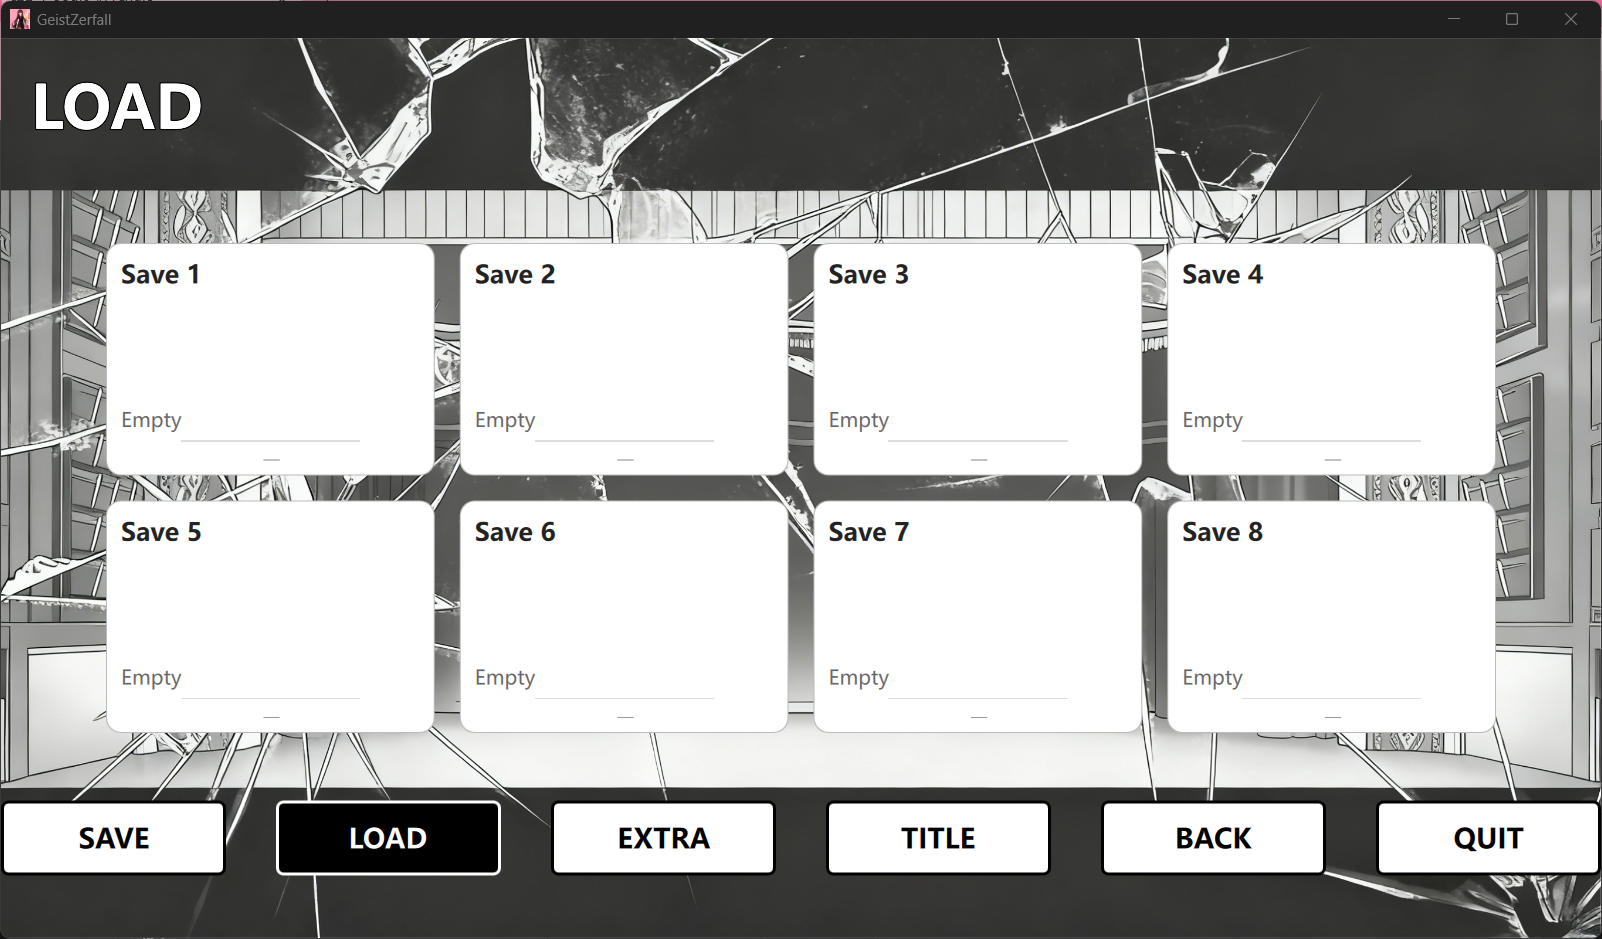
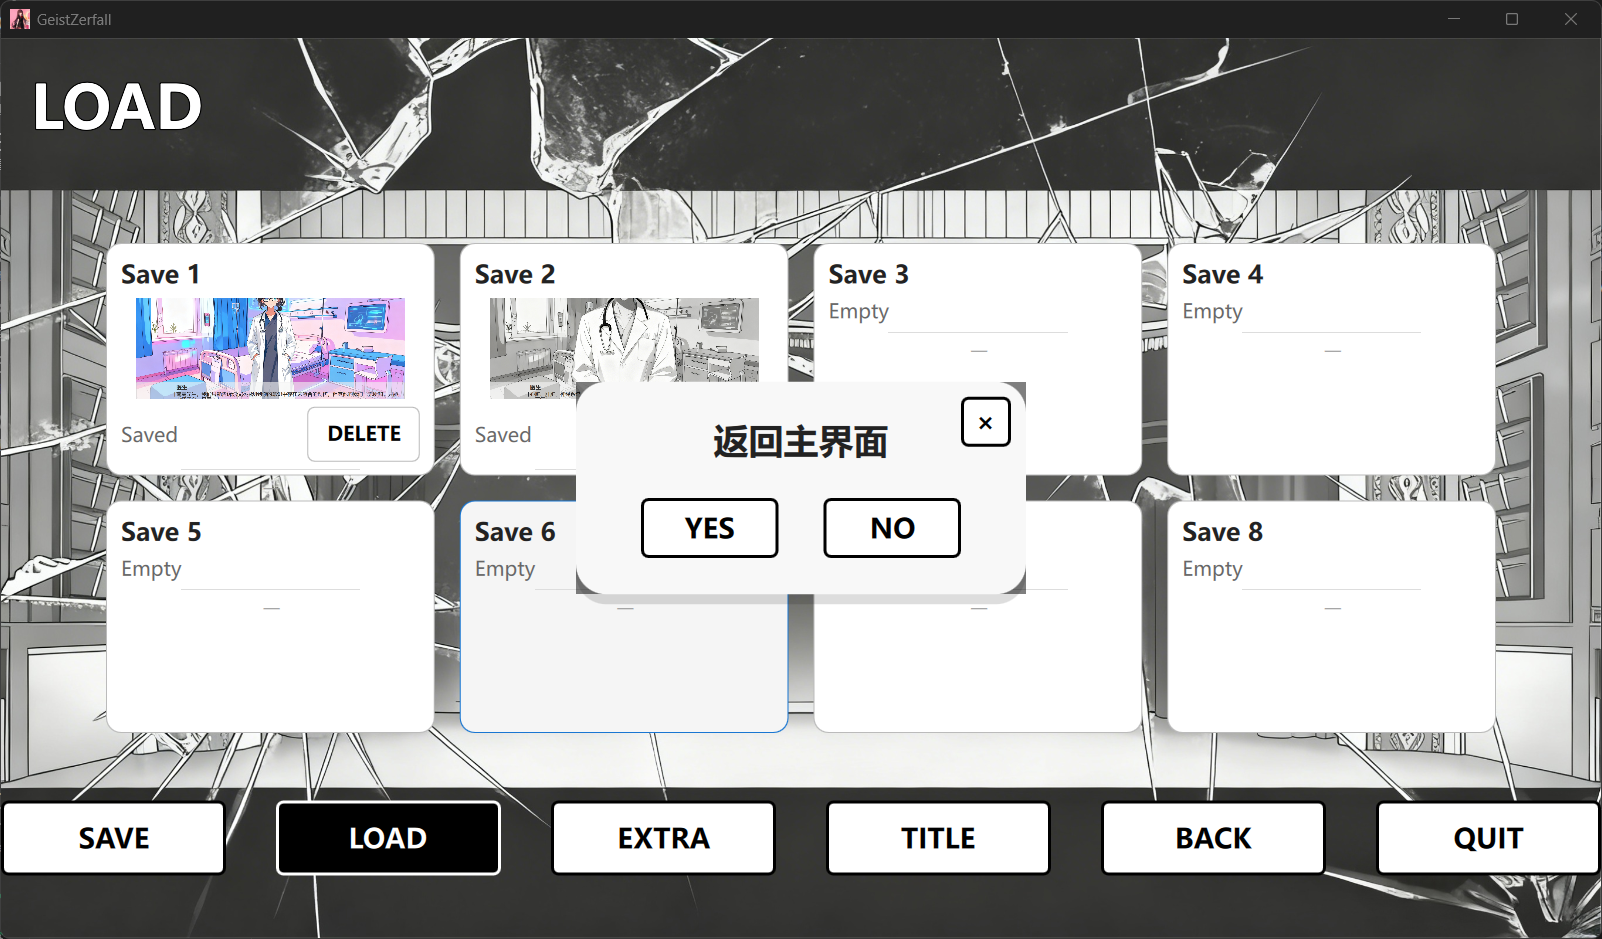
文档更新

diff --git a/README.md b/README.md
@@ -1,5 +1,3 @@
-
-
 <div align="center">
     <h1>GeistZerfall</h1>
     <br/>
@@ -24,6 +22,8 @@
   - [编译步骤](#编译步骤)
 - [项目结构 (Project Structure)](#项目结构-project-structure)
   - [部分游戏界面](#部分游戏界面)
+    - [PC](#pc)
+    - [Android](#android)
 - [玩家操作说明 (Gameplay Manual)](#玩家操作说明-gameplay-manual)
   - [操作与界面示意](#操作与界面示意)
   - [基本操作（键盘/按键）](#基本操作键盘按键)
@@ -40,35 +40,36 @@
 
 
 ## 项目简介
-
+> **背景**: 2025年南京大学智能科学与技术专业程设实训大作业。
+> 
 **GeistZerfall** 是一款基于 **Qt 6 (C++/QML)** 开发的混合类型游戏，结合了 **俯视角射击 (Top-Down Shooter)** 与 **视觉小说 (Visual Novel)** 的元素。项目采用前后端分离架构，核心逻辑与数据管理由 C++ 实现，复杂的 UI 交互与视觉特效由 QML 完成。
 
-> **项目背景**: 2025年南京大学智能科学与技术专业程设实训大作业。
+>**b站演示视频**：https://www.bilibili.com/video/BV1W8UZBZED7/
+
 
 
 ## 技术栈 (Tech Stack)
 
-*   **编程语言**: C++17, QML, JavaScript
+*   **编程语言**: C++, QML等
 *   **核心框架**: Qt 6.9
     *   Qt Quick (2D 渲染与 UI)
     *   Qt Multimedia (音频管理)
     *   Qt Core (文件 I/O, JSON 处理, 核心逻辑)
-*   **构建系统**: CMake (3.16+)
-*   **支持平台**: Windows, Android, Linux, macOS
+*   **构建系统**: CMake
+*   **支持平台**: Windows, Android
 
 
 ## 构建与运行 (Build & Run)
 
 ### 环境要求
-*   Qt 6.8 或更高版本 (包含 Qt Quick, Multimedia 模块)
-*   支持 C++17 的编译器 (MSVC 2019+, GCC, Clang)
-*   CMake 3.16+
+*   Qt 6 或更高版本 (包含 Qt Quick, Multimedia 模块)
+*   支持 C++ 的编译器 (MSVC 2019+, GCC, Clang)
 
 ### 编译步骤
 
 1.  **克隆仓库**
     ```bash
-    git clone <repository_url>
+    git clone https://github.com/dieWehmut/GeistZerfall
     cd GeistZerfall
     ```
 
@@ -142,6 +143,8 @@ GeistZerfall/
 
 ```
 ### 部分游戏界面
+
+#### PC
 ![](docs/gameview/mainmenu.png)
 ![](docs/gameview/config.png)
 ![](docs/gameview/save.png)
@@ -150,13 +153,16 @@ GeistZerfall/
 ![](docs/gameview/loreView_circle.png)
 ![](docs/gameview/loreView_scene.png)
 
-
+#### Android
+![](docs/gameview/splash1.png)
+![](docs/gameview/splash2.png)
+![](docs/gameview/gameView.png)
 
 ## 玩家操作说明 (Gameplay Manual)
 
 ### 操作与界面示意
-![](docs/instructions/gameView.png)
 ![](docs/instructions/mouseAndKeyboard.png)
+![](docs/instructions/gameView.png)
 
 ### 基本操作（键盘/按键）
 *   **W / ↑**：向上移动
@@ -170,10 +176,10 @@ GeistZerfall/
 
 ### 界面与资源 (HUD) 说明
 *   **HP**：玩家生命值，UI 内用百分比显示（HP：xx%）。
-*   **MP1 (Bullet CD)**：表示普通射击资源条。
+*   **MP1**：表示普通射击资源条。
     *   每次射击消耗小量资源（默认示例：`shotCost = 10`，`bulletCdMax = 3000`，约 0.33%/发），只要 `bulletCd > 0` 即可继续射击。
     *   停止射击将触发子弹资源充能（Timer 驱动）。
-*   **MP2 (Laser CD)**：表示激光/技能资源条。
+*   **MP2**：表示激光/技能资源条。
     *   **狙击 (snipe)** 通常消耗全部 MP2（100%）。
     *   **波 (wave)** 消耗 50% MP2。
     *   **传送 (teleport)** 会消耗约 5% MP2（触发成功后客户端扣除）。
@@ -215,7 +221,6 @@ GeistZerfall/
 ## 敌人快速速查 (Enemy Guide)
 
 ### 敌人说明一览
-
 ![](docs/instructions/enemy1.png)
 ![](docs/instructions/enemy2.png)
 ![](docs/instructions/enemy3.png)
@@ -223,6 +228,7 @@ GeistZerfall/
 ![](docs/instructions/enemy5.png)
 ![](docs/instructions/enemy6.png)
 ![](docs/instructions/enemy7.png)
+
 
 | 敌人类型 | 特性描述 | 应对提示 |
 | :--- | :--- | :--- |
